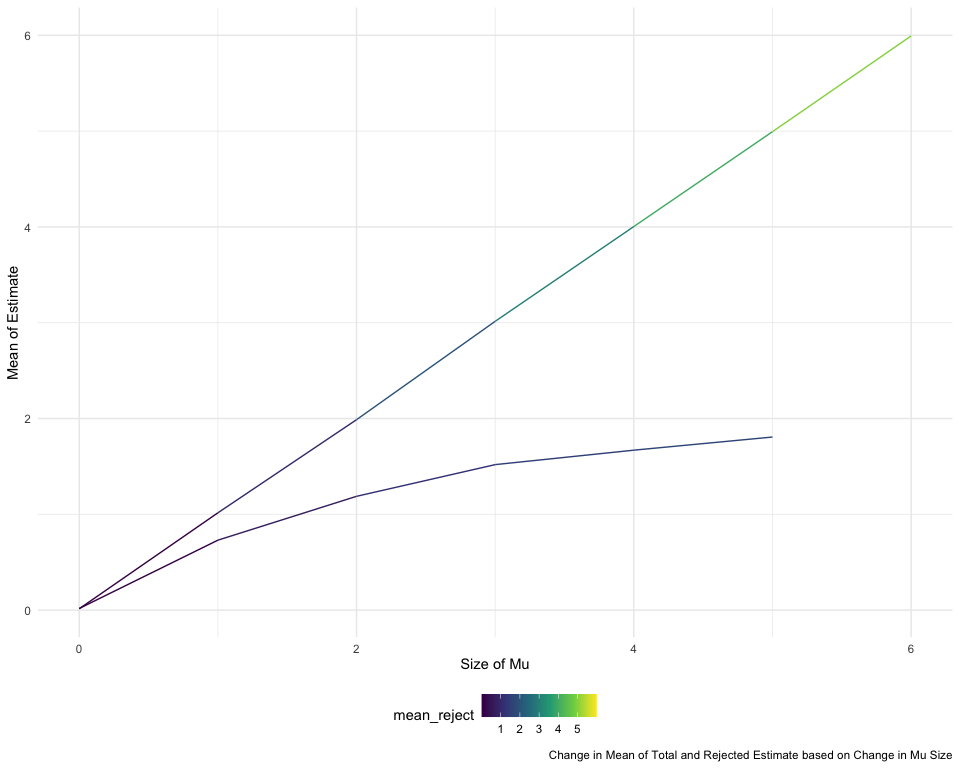
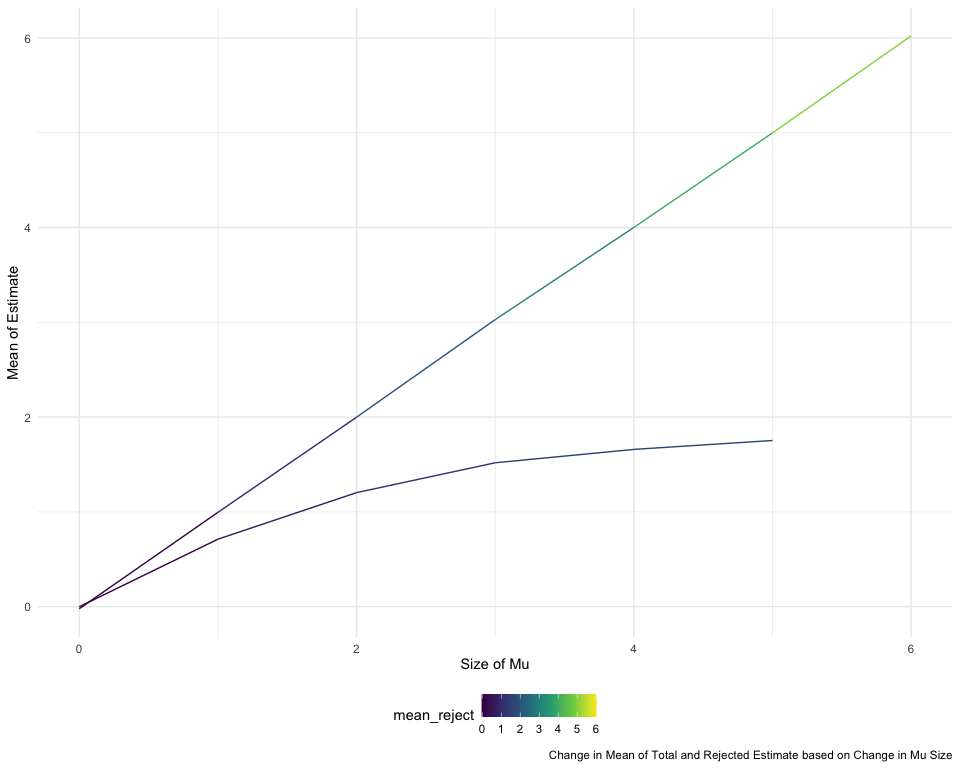
Problem 3 Change in 2 plots

diff --git a/p8105_hw5_yy3421.md b/p8105_hw5_yy3421.md
@@ -277,6 +277,8 @@ sim_t_test = function(mu, n = 30, sigma = 5) {
 ### Simulation for mu = 0
 
 ``` r
+output = vector("list", 5000)
+
 for (i in 1:5000) {
   output[[i]] = sim_t_test(mu=0)
 }
@@ -331,7 +333,7 @@ sim_results_df_mean_mu=
 
 sim_results_df |> 
   group_by(mu_size) |> 
-  filter(p.value >= 0.05) |> 
+  filter(p.value > 0.05) |> 
   summarize(mean_reject = mean(estimate)) |> 
   right_join(sim_results_df_mean_mu) |> 
   ggplot(aes(x = mu_size)) +
